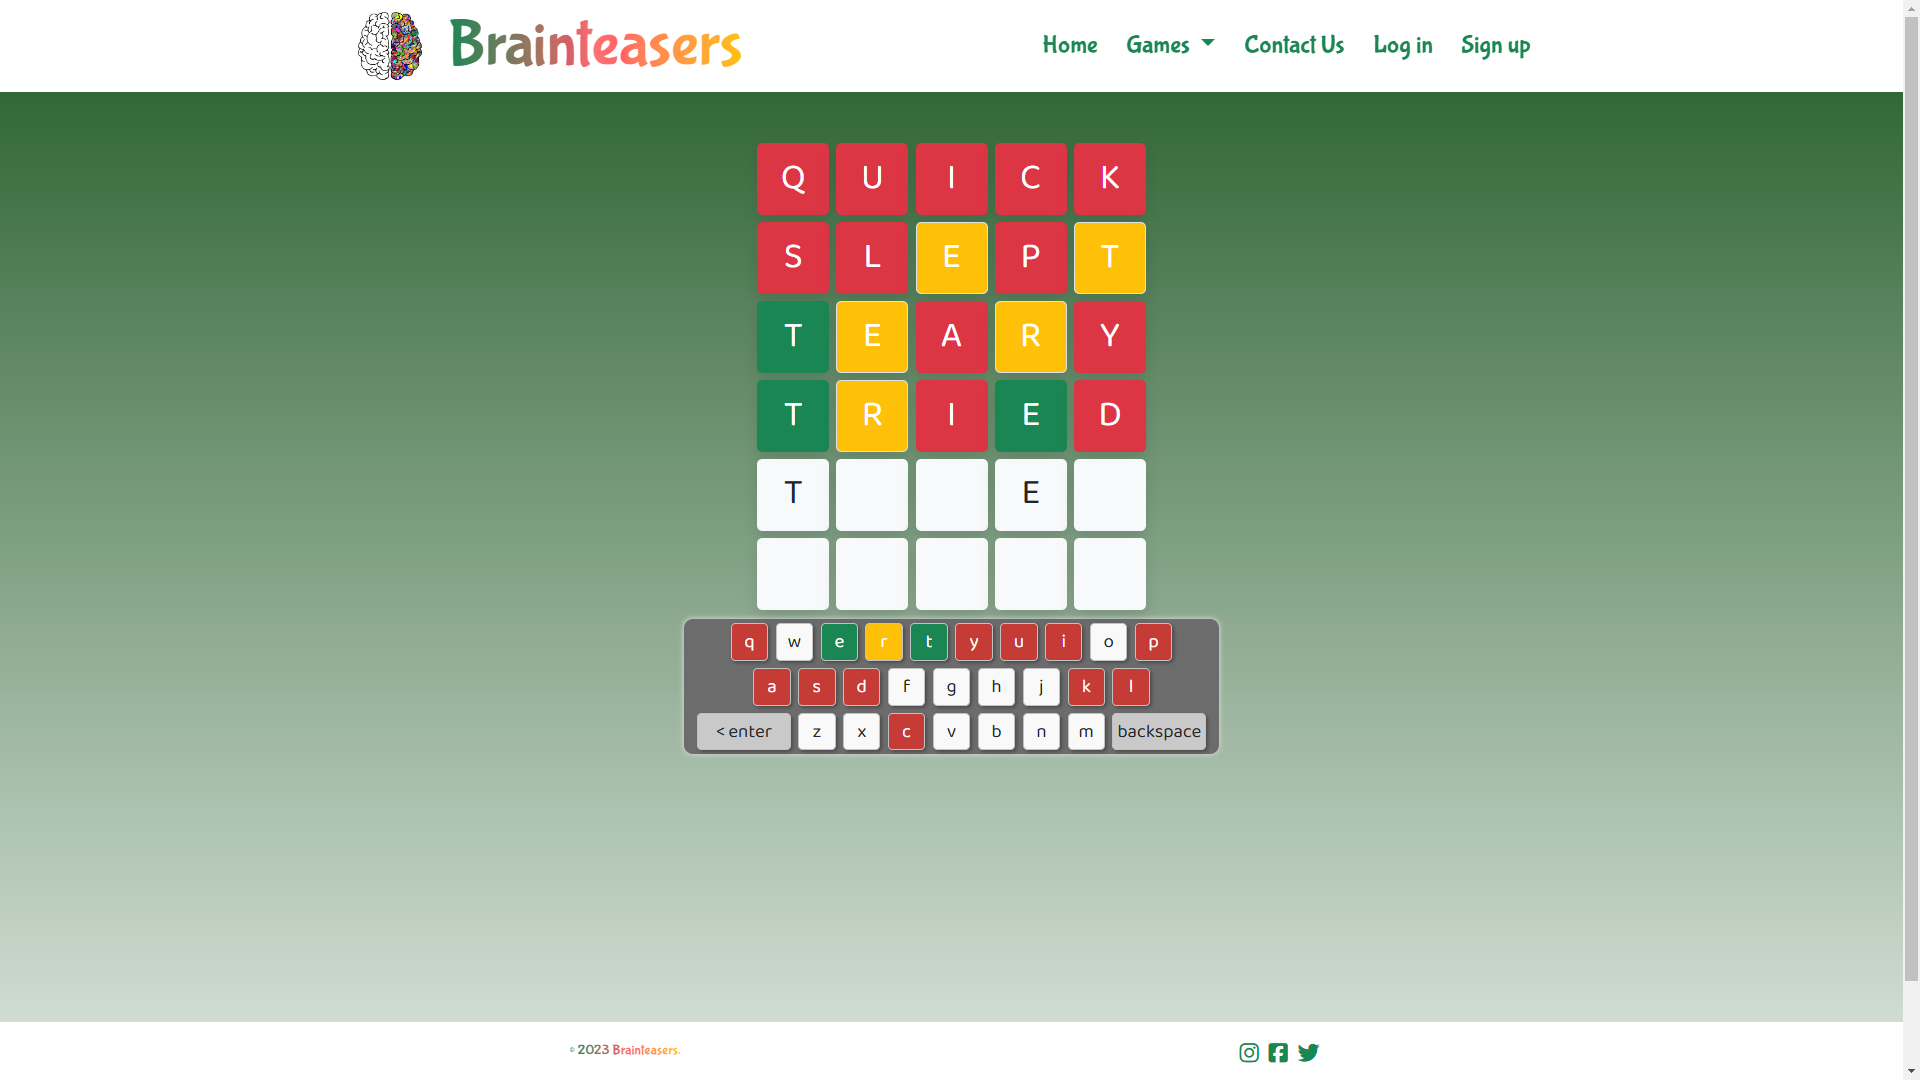
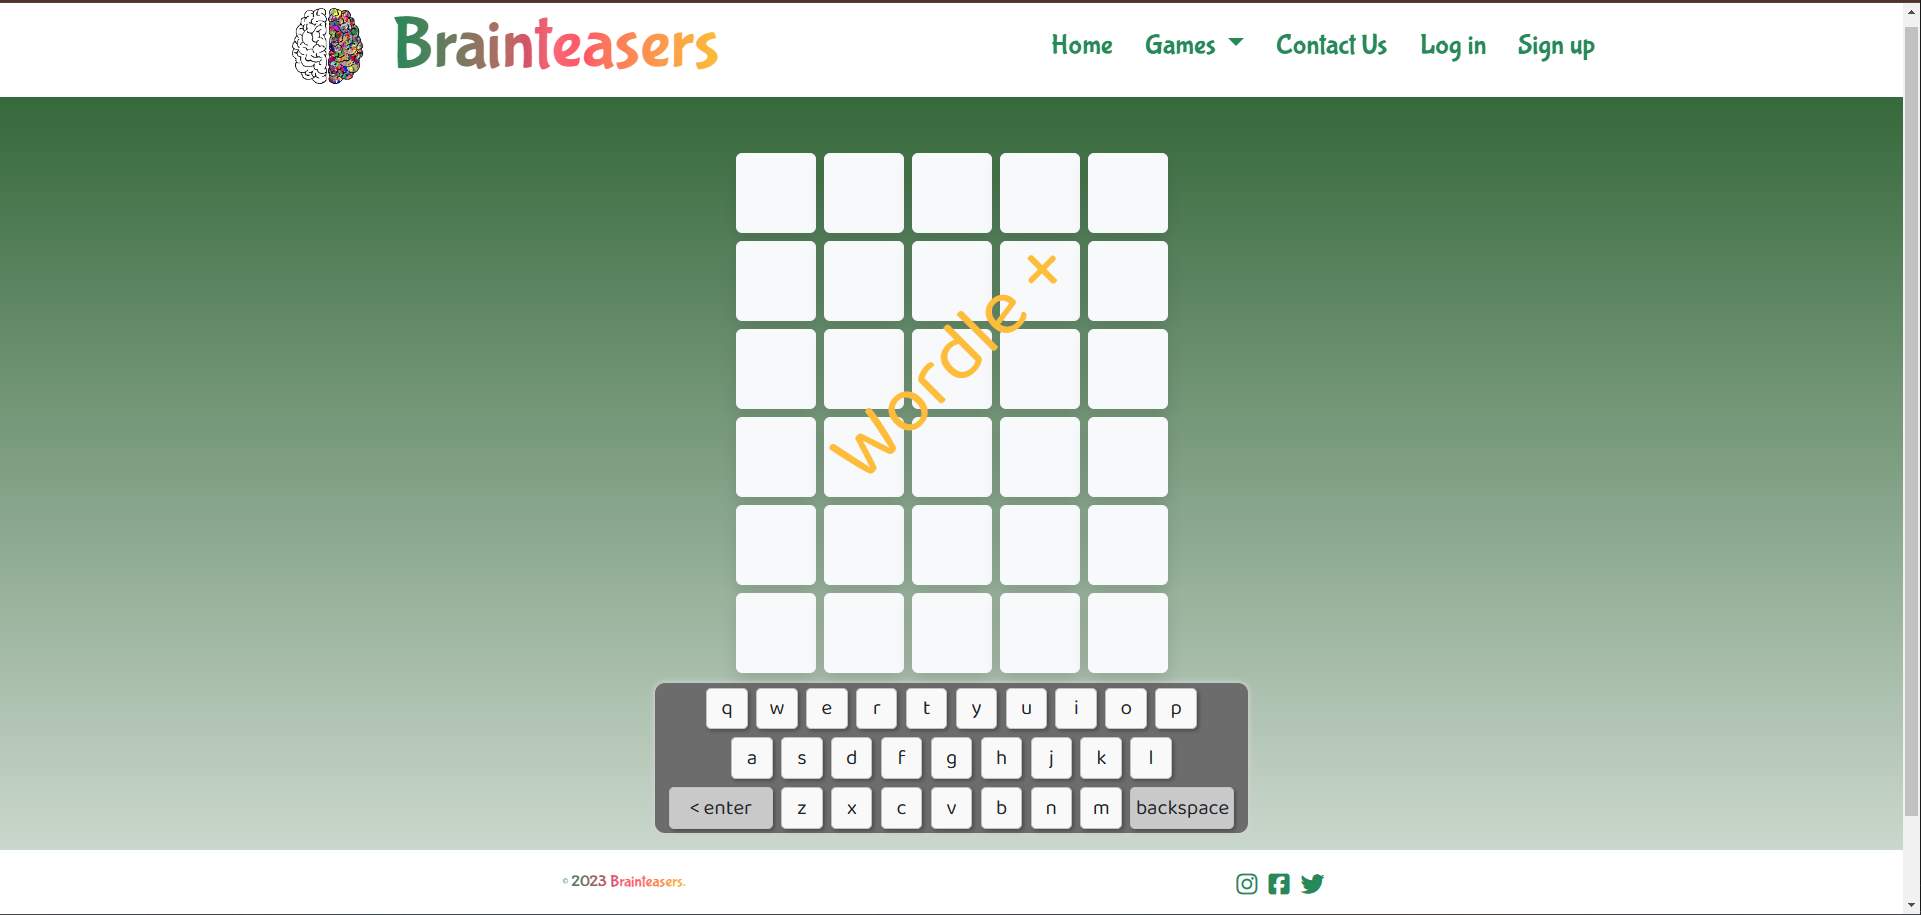
added BT component

Changed region(s): [[0.0, 0.0, 1.0, 1.0]]

diff --git a/React-Portfolio-Project/src/utils/images.js b/React-Portfolio-Project/src/utils/images.js
@@ -13,6 +13,10 @@ import WorkDashIMG from '../assets/projects-assets/WorkDashIMG.png'
 import ExploreLLMConcept from '../assets/projects-assets/ExploreLLMConcept.mp4'
 import ExploreLLMcards from '../assets/projects-assets/ExploreLLMcards.png'
 
+import BrainteasersWordleIMG from '../assets/projects-assets/BrainteasersWordleIMG.png'
+import BrainteasersRegIMG from '../assets/projects-assets/BrainteasersRegIMG.png'
+import BrainteasersAdmin from '../assets/projects-assets/BrainteasersAdmin.png'
+
 
 export const skillCardsContent = [
   {
@@ -83,7 +87,6 @@ export const imagesProjExploreLLM = [
     label: 'ExploreLLM Concept Video',
     description:
     'A video showcasing the concept of ExploreLLM, a web app that enhances AI interactions by integrating large language models (LLMs) with a tailor-made GUI for structured user experiences.',
-    link: false,
     type: 'video',
   },
   {
@@ -91,13 +94,42 @@ export const imagesProjExploreLLM = [
     label: 'ExploreLLM Concept Cards',
     description:
       'A visual representation of the ExploreLLM concept, showcasing the app’s user interface and features.',
-    link: false,
   },
   {
     src: ExploreLLM_IMG,
     label: 'ExploreLLM Concept Web App',
     description:
       "A recreation of the app from 'Beyond ChatBots: ExploreLLM for Structured Thoughts and Personalized Model Responses', this project demonstrates how ExploreLLM enhances AI interactions by integrating large language models (LLMs) with a tailor-made GUI for structured user experiences.",
-    link: false,
+  },
+]
+
+export const imagesProjBT = [
+  {
+    src: BrainteasersHomeIMG,
+    label: 'Brainteasers Home',
+    description:
+      'The home page of the Brainteasers website, showcasing the site’s design and features.',
+    link: 'https://brainteasers.herokuapp.com/',
+  },
+  {
+    src: BrainteasersWordleIMG,
+    label: 'Brainteasers Wordle',
+    description:
+      'The Wordle game on the Brainteasers website, featuring a word-guessing game with a score board.',
+    link: 'https://brainteasers.herokuapp.com/wordle',
+  },
+  {
+    src: BrainteasersRegIMG,
+    label: 'Brainteasers Registration',
+    description:
+      'The registration page of the Brainteasers website, allowing users to create an account.',
+    link: 'https://brainteasers.herokuapp.com/register',
+  },
+  {
+    src: BrainteasersAdmin,
+    label: 'Brainteasers Admin',
+    description:
+      'The admin page of the Brainteasers website, providing access to CRUD operations for the site’s content.',
+    link: 'https://brainteasers.herokuapp.com/admin',
   },
 ]

diff --git a/React-Portfolio-Project/src/components/features/Carousel.jsx b/React-Portfolio-Project/src/components/features/Carousel.jsx
@@ -41,14 +41,14 @@ export default function Carousel({
           <video
             src={images[currentIndex].src}
             alt={images[currentIndex].label}
-            className="z-10 col-start-2 row-start-1 aspect-square h-[320px] w-[1000px] origin-top cursor-pointer rounded object-scale-down transition-all duration-500 ease-in-out 3xl:h-[400px]"
+            className="z-10 col-start-2 row-start-1 aspect-square h-[320px] w-[1000px] origin-top cursor-pointer rounded object-scale-down transition-all duration-500 ease-in-out 3xl:h-[420px]"
             controls
           />
         ) : (
           <img
             src={images[currentIndex].src}
             alt={images[currentIndex].label}
-            className="z-10 col-start-2 row-start-1 h-[320px] w-[1000px] origin-top cursor-pointer rounded object-scale-down transition-all duration-500 ease-in-out 3xl:h-[400px]"
+            className="z-10 col-start-2 row-start-1 h-[320px] w-[1000px] origin-top cursor-pointer rounded object-scale-down transition-all duration-500 ease-in-out 3xl:h-[420px]"
           />
         )}
 

diff --git a/React-Portfolio-Project/src/components/pages/projects/ProjBT.jsx b/React-Portfolio-Project/src/components/pages/projects/ProjBT.jsx
@@ -1,13 +1,15 @@
 //
+import Carousel from "../../features/Carousel"
+import Tabs from "../../features/Tabs"
+import { imagesProjBT } from '../../../utils/images'
 
 export default function ProjBT() {
 
   return (
     <>
-      <div className="flex flex-col items-center justify-center h-screen">
-        <h1 className="text-5xl font-bold text-cyan-900">Brainteasers</h1>
-        <p className="text-2xl text-gray-900">Coming Soon</p>
-      </div>
+      <Carousel images={imagesProjBT}>
+        <Tabs />
+      </Carousel>
     </>
   )
 }

diff --git a/React-Portfolio-Project/src/components/features/Tabs.jsx b/React-Portfolio-Project/src/components/features/Tabs.jsx
@@ -33,7 +33,7 @@ export default function Tabs() {
   const getTabShift = () => {
     switch (activeTab) {
       case 0:
-        return '-left-1 mt-1 rotate-180'
+        return '-left-1.5 mt-1 rotate-180'
       case 1:
         return 'left-1/2 -mt-2.5 ms-2 -translate-x-1/2'
       case 2:
